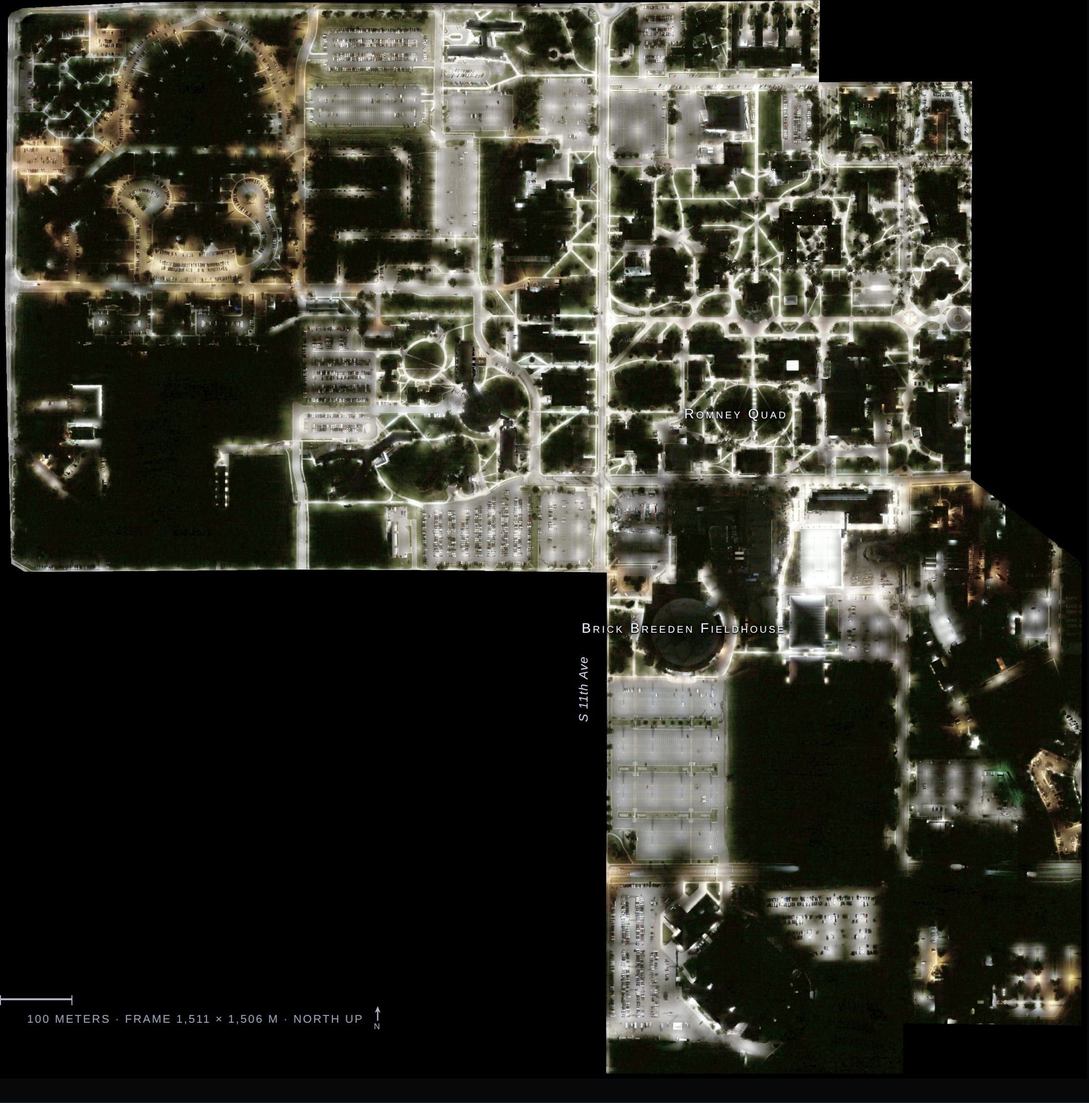
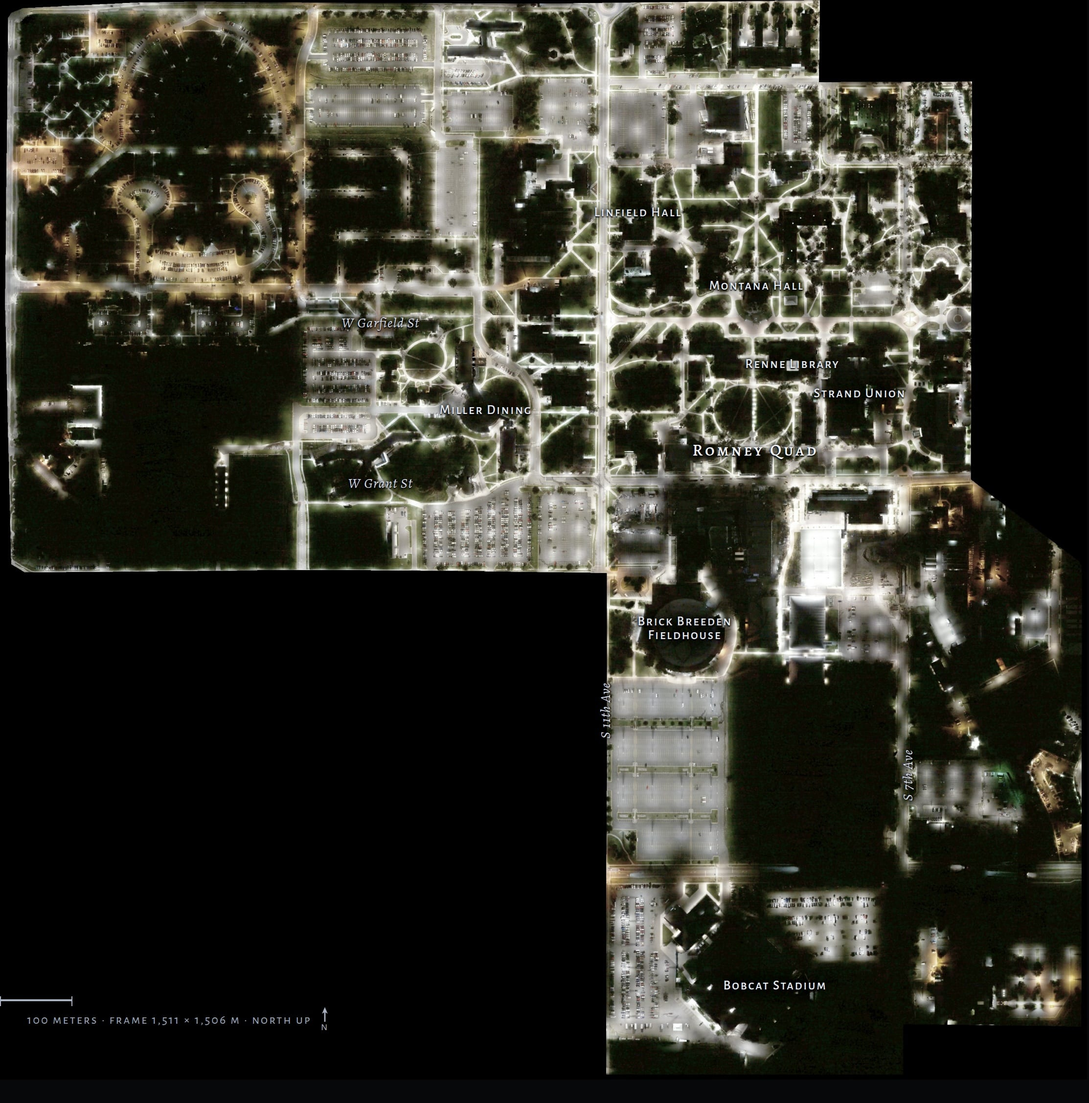
Campus at Night: sheets v20/fa4 with new type, campus labels, and plain wording; drop the OpenDroneMap bug sentence
Both sheets reset in the Alegreya family, embedded. Campus labels placed from OpenStreetMap footprints after georeferencing the survey mosaic and checking it against streets visible in the imagery. Ground control leaves both stat bands; the survey sheet's stats move into the map's empty corner as a stacked column with a revised set. Engine and transfer function retired from the sheets and the site copy in favour of plain words. Section and reconstruction crops recut at the new panel positions; alt text names the labels now printed. No figure changed. Also completes 87c216f, which carried this page's text without its images: the --build-overviews sentence is removed from Outcome and the count reads two failures.

diff --git a/src/lib/content.ts b/src/lib/content.ts
@@ -89,7 +89,7 @@ export const galleryGroups: Record<string, GalleryGroupMeta> = {
   },
   'campus-at-night': {
     title: 'Campus at Night',
-    note: "One overnight survey of the MSU campus, rebuilt through three photogrammetry engines. Drone2Map produced the cleaner mosaic but never solved the south block; Metashape covered both flown blocks, reaching 149 of the 236 hectares flown. No surveyed markers were placed on the ground, so neither result is the reference for the other.",
+    note: "One overnight survey of the MSU campus, rebuilt through three photogrammetry programs. Drone2Map produced the cleaner mosaic but never solved the south block; Metashape covered both flown blocks, reaching 149 of the 236 hectares flown. No surveyed markers were placed on the ground, so neither result is the reference for the other.",
     href: '/projects/msu-campus-at-night',
   },
   'rooney-ranch-atlas': {

diff --git a/src/content/gallery/campus-at-night-reconstruction.md b/src/content/gallery/campus-at-night-reconstruction.md
@@ -19,11 +19,11 @@
 # or unreconstructed, and Jackson's instruction was not to fill gaps by
 # inference. Ask him before writing a cause for it.
 title: "All 149 hectares, from Metashape"
-blurb: "Everything Metashape reconstructed, out of 236 hectares flown. It was the only engine of the three that solved the south block, at lower right, which is why this survey needed two sheets rather than one."
+blurb: "Everything Metashape reconstructed, out of 236 hectares flown. It was the only one of the three programs that reconstructed the south block, at lower right, which is why this survey needed two sheets rather than one."
 year: 2023
 tools: ["UAV", "Agisoft Metashape"]
 image: "../../assets/images/campus-at-night-reconstruction.jpg"
-alt: "Irregular night orthomosaic of the MSU campus on black: a large rectangular block of lit walkways and parking lots at upper left, a second block at lower right containing the round roof of Brick Breeden Fieldhouse, and empty black ground between them. Labels name Romney Quad, Brick Breeden Fieldhouse, and S 11th Ave."
+alt: "Irregular night orthomosaic of the MSU campus on black: a large rectangular block of lit walkways and parking lots at upper left, a second block at lower right containing the round roof of Brick Breeden Fieldhouse, and empty black ground between them. Small-capital labels name Montana Hall, Renne Library, Strand Union, Romney Quad, Miller Dining, Linfield Hall, Brick Breeden Fieldhouse and Bobcat Stadium; italic street names mark S 11th Ave, S 7th Ave, W Grant St and W Garfield St."
 group: "campus-at-night"
 groupOrder: 2
 order: 3

diff --git a/src/content/gallery/campus-at-night-section.md b/src/content/gallery/campus-at-night-section.md
@@ -19,11 +19,11 @@
 # a lossless reference, WORSE than mozjpeg quality 82 at 489 KB and
 # 2.27/255 — this is continuous-tone night imagery, not a figure.
 title: "The core, from Drone2Map"
-blurb: "A 592 by 502 meter section of the campus core, from the engine with the cleanest mosaic. Each pixel covers 2.43 cm of ground. Exposure was locked and nothing was color-balanced, so brightness differences are differences on the ground."
+blurb: "A 592 by 502 meter section of the campus core, from the program with the cleanest mosaic. Each pixel covers 2.43 cm of ground. Exposure was locked and nothing was color-balanced, so brightness differences are differences on the ground."
 year: 2023
 tools: ["UAV", "Esri Drone2Map"]
 image: "../../assets/images/campus-at-night-section.jpg"
-alt: "Night orthomosaic of the Montana State University core: a street grid picked out by white-green lamp pools along walkways and parking lots, a dark oval quad at center, and amber sodium-vapor lighting across the block at lower right."
+alt: "Night orthomosaic of the Montana State University core: a street grid picked out by white-green lamp pools along walkways and parking lots, a dark oval quad at center labeled Romney Quad, and amber sodium-vapor lighting across the block at lower right. Small-capital labels name Montana Hall, Leon Johnson Hall, Reid Hall, Traphagen Hall, Renne Library, Strand Union, A.J.M. Johnson Hall, Romney Hall, Gaines Hall and Norm Asbjornson Hall; italic street names mark S 11th Ave, S 7th Ave, W Grant St and W Garfield St."
 group: "campus-at-night"
 groupOrder: 1
 order: 3

diff --git a/src/content/gallery/campus-at-night-south-block.md b/src/content/gallery/campus-at-night-south-block.md
@@ -11,7 +11,7 @@
 # produced ground no other engine did — that is coverage, not accuracy.
 # Do not let this blurb drift toward "Metashape was the best engine."
 title: "The south block"
-blurb: "An inset from the complete-survey sheet: 250 meters of ground no other engine reconstructed. Seventy-one percent of it reads darker than 10 of 255, and the middle value is 3: one lit parking lot in a block otherwise close to dark."
+blurb: "An inset from the complete-survey sheet: 250 meters of ground that only Metashape reconstructed. Seventy-one percent of it reads darker than 10 of 255, and the middle value is 3: one lit parking lot in a block otherwise close to dark."
 year: 2023
 tools: ["UAV", "Agisoft Metashape"]
 image: "../../assets/images/campus-at-night-south-block.jpg"
